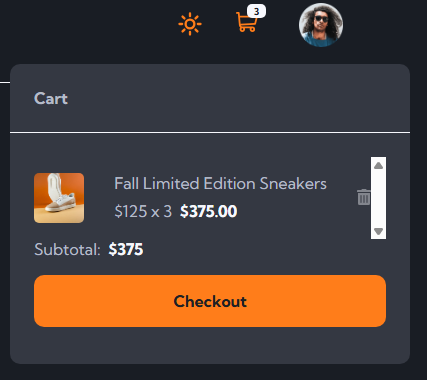
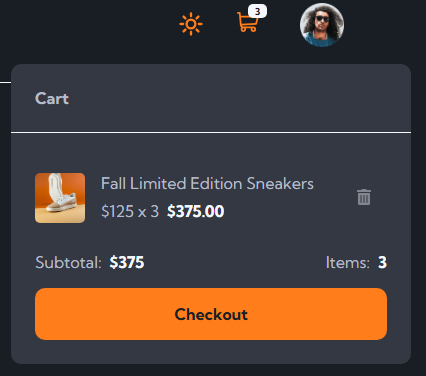
docs: update README file

diff --git a/README.md b/README.md
@@ -9,7 +9,7 @@ This is a solution to the [E-commerce product page challenge on Frontend Mentor]
 - [Overview](#overview)
   - [The challenge](#the-challenge)
   - [Screenshots](#screenshots)
-    - [Mobile and Desktop Layout](#mobile-and-desktop-layout)
+    - [Responsive Layout](#responsive-layout)
     - [Dark Theme](#dark-theme)
     - [Product](#product)
     - [Add items to shopping cart](#add-items-to-shopping-cart)
@@ -36,17 +36,30 @@ Users should be able to:
 - Add items to the cart
 - View the cart and remove items from it
 
+Additional features:
+
+- Toggle the light/dark app theme
+- When the product quantity is 0 the "Decrease quantity" and "Add to cart" buttons are disabled and greyed out.
+
 ### Screenshots
 
-#### Mobile and Desktop Layout
+#### Responsive Layout
+
+This project features a responsive design, having been created with a "mobile-first" approach.
 
 1. Mobile layout
 
-    <img src="public/images/readme/layout/lightTheme/mobile.png" width="250" alt="Sneakers mobile layout - light theme">
+   1.1 Small Screens
 
-   1.1 Mobile Navigation
+      <img src="public/images/readme/layout/lightTheme/mobile.png" width="250" alt="Sneakers mobile layout - light theme">
+      
+      - Mobile Navigation
 
-    <img src="public/images/readme/layout/lightTheme/mobile_navigation.png" width="250" alt="Sneakers mobile navigation menu - light theme">
+      <img src="public/images/readme/layout/lightTheme/mobile_navigation.png" width="250" alt="Sneakers mobile navigation menu - light theme">
+
+   1.2 Tablet Screens
+
+      <img src="public/images/readme/layout/lightTheme/tablet.png" width="350" alt="Sneakers mobile navigation menu - light theme">
 
 2. Desktop layout
 
@@ -88,7 +101,7 @@ Clicking the theme toggle button allows to change the app's theme.
 
 #### Add items to shopping cart
 
-As the default behavior, the "decrease quantity" counter button and "add to cart" button are disabled and have a gray color.
+As the default behavior, the "decrease quantity" counter button and "add to cart" button are disabled and greyed out.
 
 ![Decrease quantity and add to cart buttons disabled state](public/images/readme/product/counterAddToCart/disabled.png)
 
